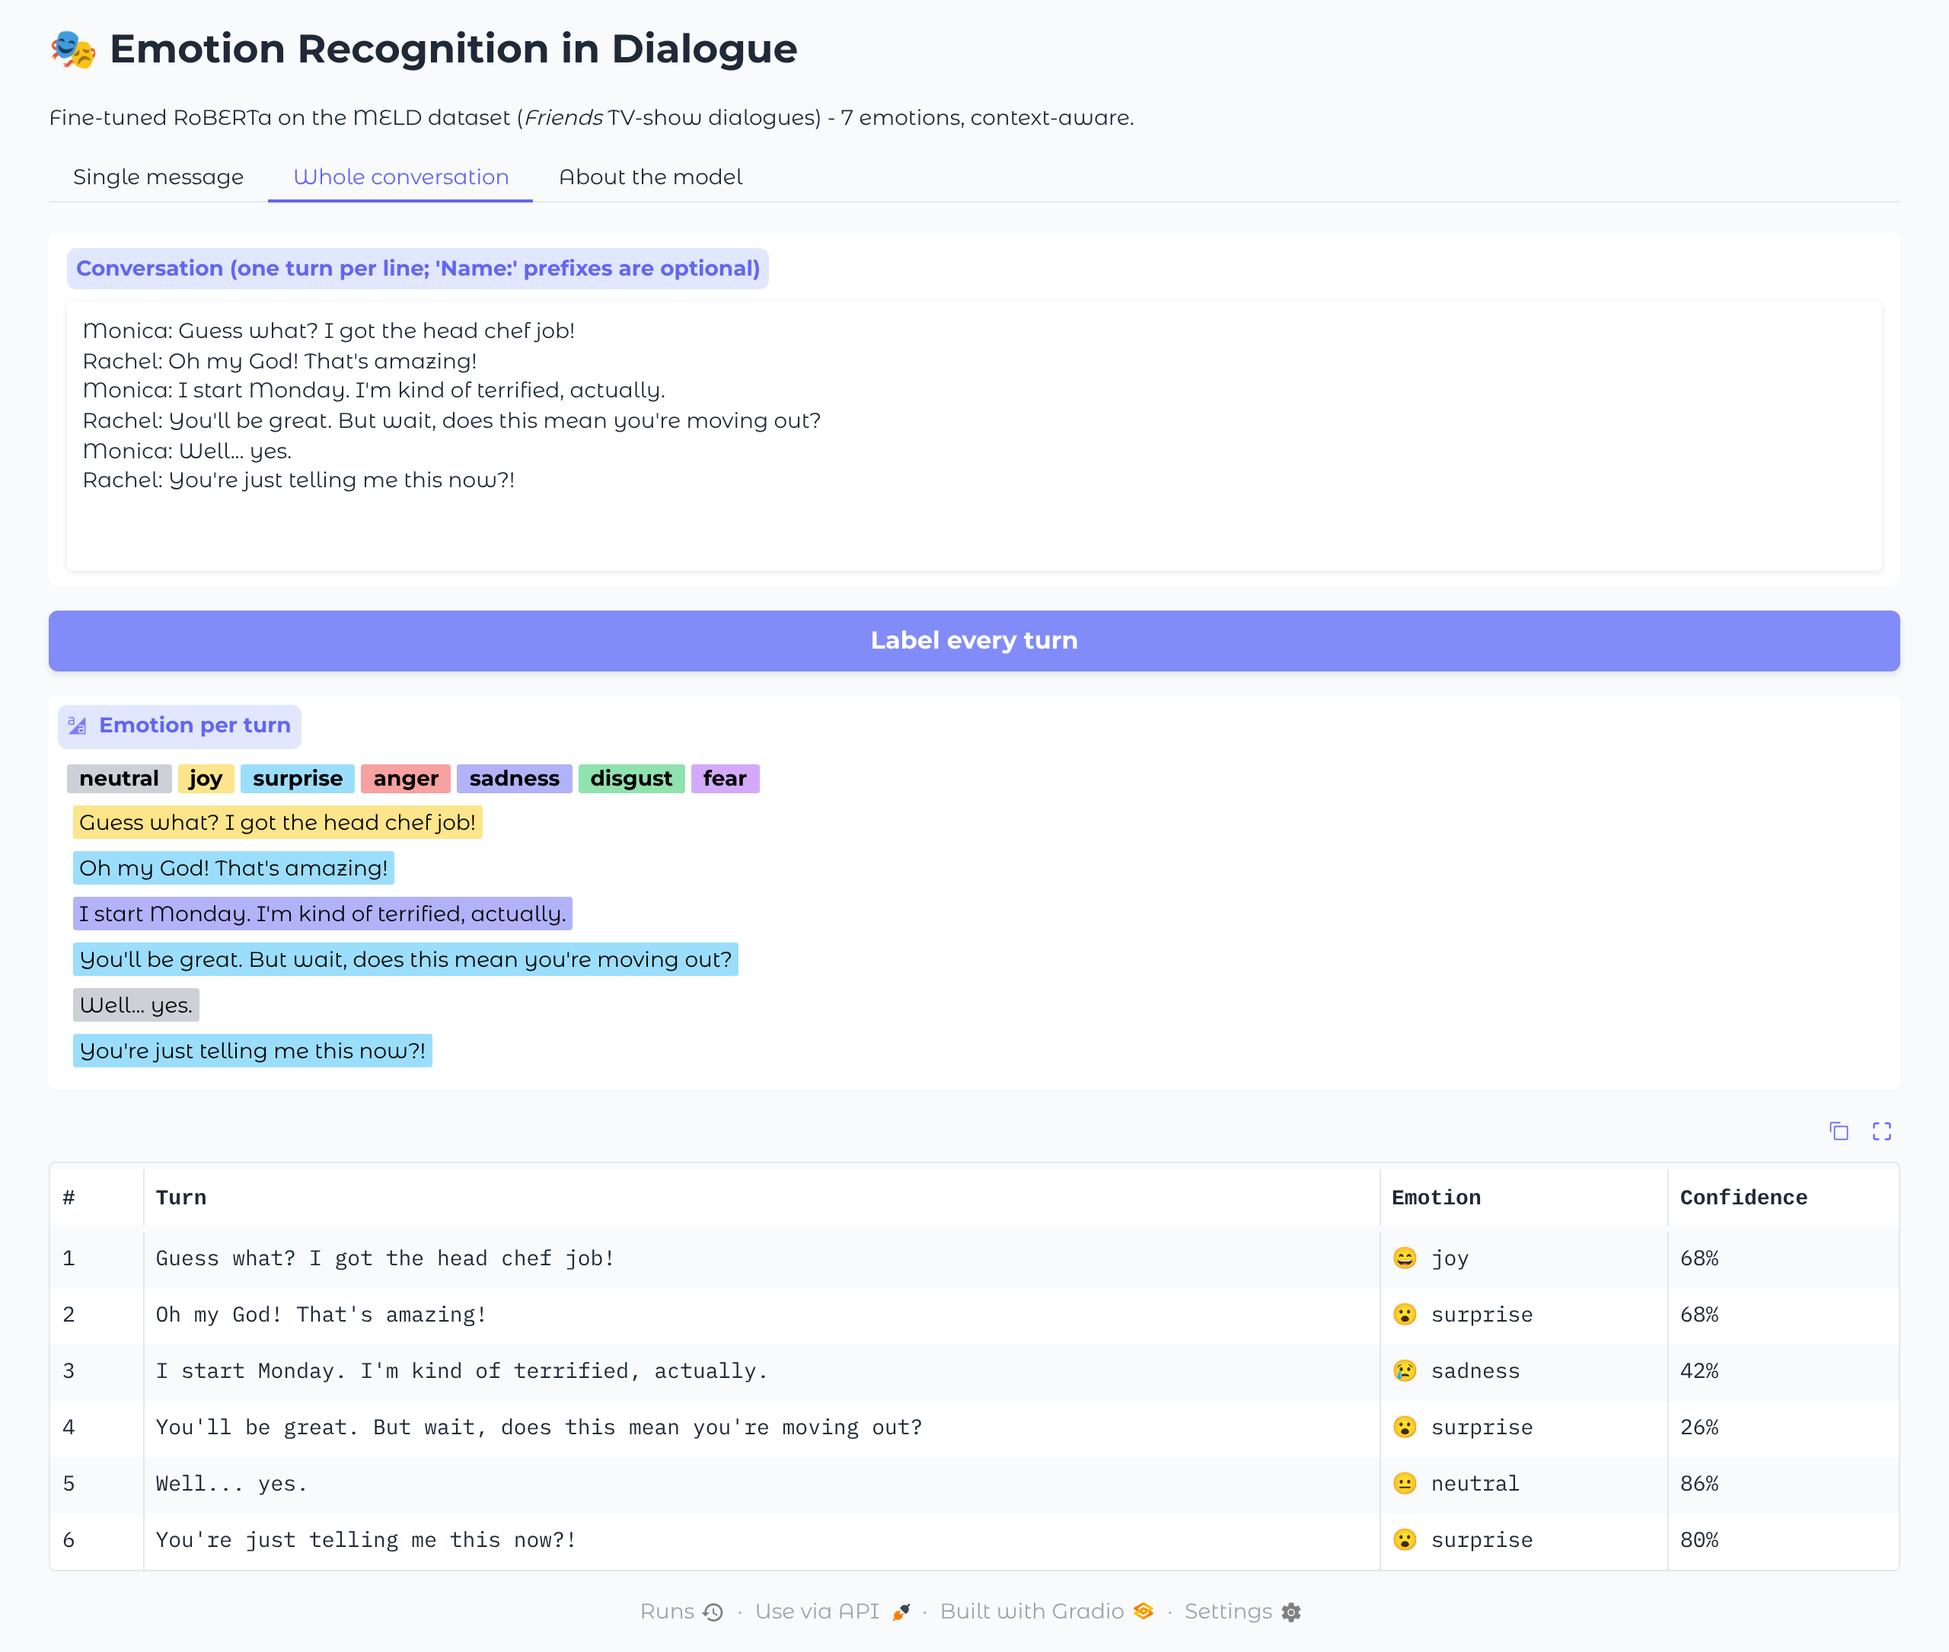
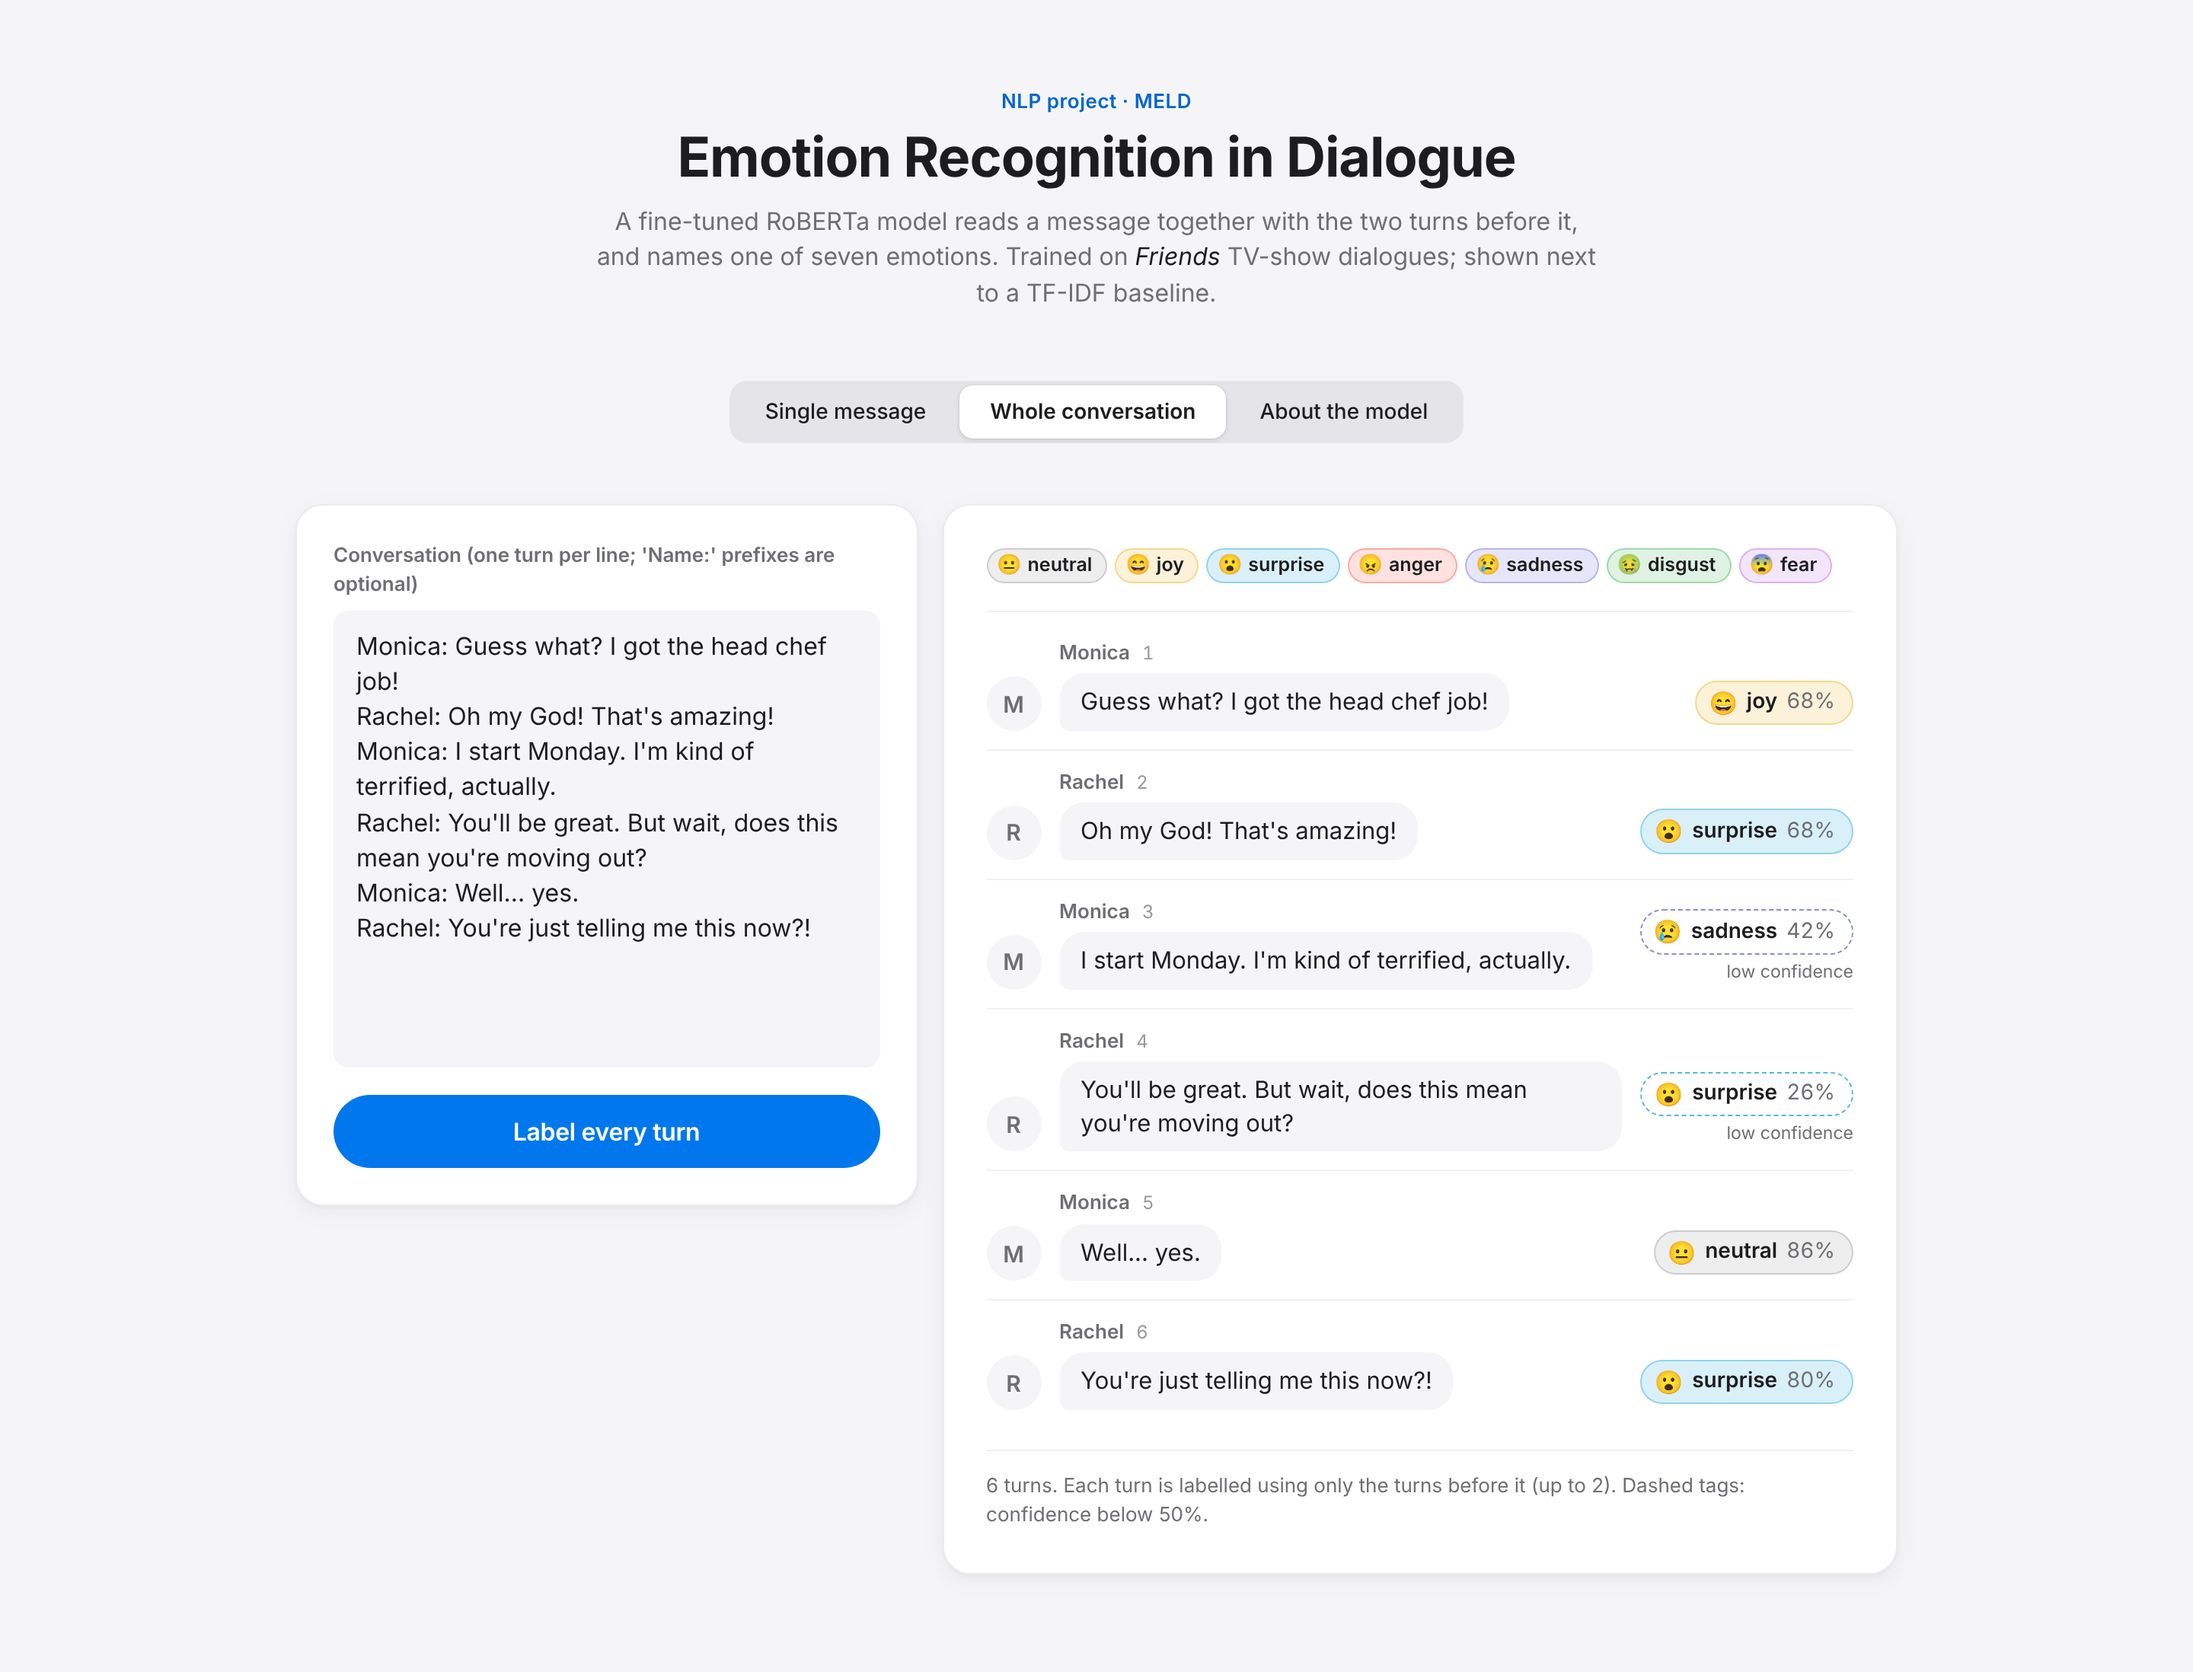
App uses single-pass predict_pair; refresh screenshots and docs
- classify() gets with- and without-context predictions in one forward
  pass when previous turns are given
- README layout lists assets/app.css and src/emotion/runtime.py
- DEMO_GUIDE matches the new UI: example button labels, examples run on
  click, context comparison chips
- New README screenshots of the redesigned app

Claude-Session: https://claude.ai/code/session_01FND4fGjjn8MpAg3Kuncq5P

diff --git a/app.py b/app.py
@@ -109,7 +109,10 @@ def classify(message: str, context: str) -> str:
         return _empty("Type a message first",
                       "The message box is empty. Write something, or pick one of the examples.", "✍")
     turns = _lines(context)
-    probs = model.predict(message, context=turns)
+    if turns:  # with and without context in one forward pass
+        probs, no_ctx = model.predict_pair(message, context=turns)
+    else:
+        probs = model.predict(message)
     base = baseline.predict(message)
     top, conf = next(iter(probs.items()))
     btop, bconf = next(iter(base.items()))
@@ -139,7 +142,6 @@ def classify(message: str, context: str) -> str:
 
     # -- with vs without context: the key comparison
     if turns:
-        no_ctx = model.predict(message)
         ntop, nconf = next(iter(no_ctx.items()))
         changed = ntop != top
         if changed:

diff --git a/DEMO_GUIDE.md b/DEMO_GUIDE.md
@@ -21,8 +21,10 @@ the whole repository, including `models/`.
 > neutral, joy, surprise, anger, sadness, disgust and fear. It's a RoBERTa transformer that I
 > fine-tuned on MELD, a dataset of about 13,000 dialogue turns from the TV show *Friends*."
 
-**2. Basic predictions (about 30 s).** Click the first two examples (the exam and job
-sentences from the assignment):
+**2. Basic predictions (about 30 s).** Click the first two examples, **I failed the exam
+again…** and **I got the job!!** (the sentences from the assignment). Clicking an example fills
+in the boxes and runs the prediction straight away, so there is no need to press **Detect
+emotion** afterwards:
 - "I can't believe I failed the exam again..." gives **sadness**.
 - "I got the job!! I'm so excited!" gives **joy**.
 
@@ -30,14 +32,16 @@ sentences from the assignment):
 > classical baseline (TF-IDF + logistic regression) predicts for the same text."
 
 **3. Context (about 45 s). This is the most visual moment of the demo.** Click the three
-**"Come on!"** examples one after the other:
+**"Come on!"** examples one after the other: **“Come on!” (no context)**, **“Come on!” after a
+complaint** and **“Come on!” after good news**:
 - No context: a toss-up, roughly 42% joy vs 41% anger.
 - After "What a jerk! I cannot believe he's using our divorce to sell mattresses.": **anger**
   (about 69%).
 - After "We won! We actually won the tickets!": **joy** (about 66%).
 
-The text under the prediction says what the same model would answer *without* the previous
-turns, so the audience can see that the context changed the decision.
+In the result card, two chips labelled **With context** and **Without context** show what the
+same model answers with and without the previous turns, and a **Context changed the decision**
+pill appears when they differ, so the audience can see that the context changed the decision.
 
 > "The message is identical; only the previous turns differ. The model reads the last two
 > turns of the conversation. Removing the context from this model costs it about 1.5 F1
@@ -65,7 +69,7 @@ Expect turn 3 ("I'm kind of terrified, actually.") to come out as *sadness* rath
 >
 > "Limitations: it's text only. The dataset was labelled while watching the video, so tone
 > of voice is missing and sarcasm fools it." Go back to tab 1 and click the sarcasm example
-> ("Oh great, another meeting..."); the model says *joy*.
+> (**Oh great, another meeting. (sarcasm)**); the model says *joy*.
 > "The rare emotions, fear and disgust, have only about 270 training examples each and are the
 > weakest. Fear is mostly read as neutral or anger. The model also uses context mostly as a
 > positive-or-negative signal: after sad news, 'Come on!' becomes anger rather than sadness.

diff --git a/README.md b/README.md
@@ -61,6 +61,7 @@ The fine-tuned model ships in `models/roberta-meld-context/` (float16, split int
 
 ```
 app.py                          Gradio demo (single message / whole conversation / about)
+assets/app.css                  stylesheet of the demo (light and dark mode)
 notebooks/emotion_recognition.ipynb   end-to-end notebook: data, preprocessing, baselines,
                                       evaluation, context analysis, error analysis, demo
 src/emotion/
@@ -70,6 +71,7 @@ src/emotion/
   train_transformer.py          RoBERTa fine-tuning (context pairs, class-weighted loss, best epoch on dev)
   evaluate.py                   accuracy / precision / recall / F1, confusion matrices
   predict.py                    inference wrappers used by the app and notebook
+  runtime.py                    small hardware helpers (bfloat16 detection and autocast)
 scripts/
   export_model.py               trained run -> compact float16 model in models/ (+ re-evaluation)
   make_report_figure.py         figure for the report
